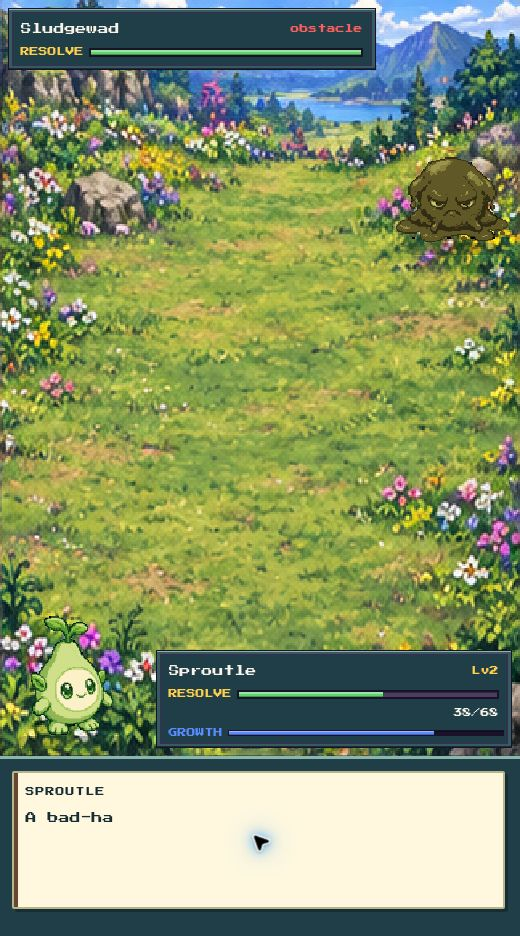
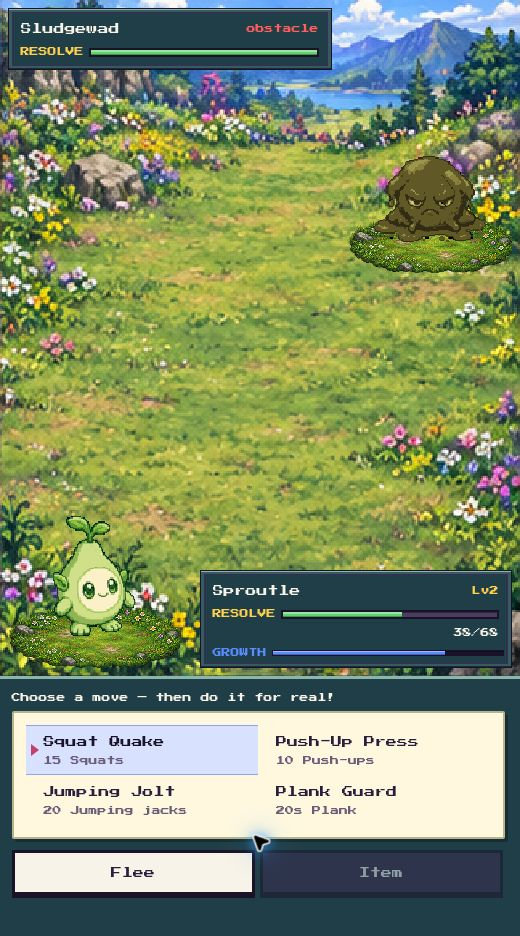
Organize home placement, tie trail scenery to distance, and add regional battle platforms

diff --git a/src/components/EnvironmentLandscape.js b/src/components/EnvironmentLandscape.js
@@ -1,10 +1,13 @@
 import React, { useEffect, useRef } from 'react';
-import { Animated, Easing, Image, Platform, View } from 'react-native';
-import { ENVIRONMENT_ATLAS, environmentCell } from '../data/environmentArt';
+import { Animated, Easing, Image, Platform, Pressable, View } from 'react-native';
+import { environmentCell } from '../data/environmentArt';
+import TileImage from './TileImage';
+import { trailTravelPixels, TRAIL_NOTES } from '../data/trailTravel';
 import useReducedMotion from '../state/useReducedMotion';
 import useDaylight from '../state/useDaylight';
 import { veilFor } from '../data/daylight';
 
+const ENVIRONMENT_ATLAS = require('../../assets/worlds/trail-environments-v2.png');
 const BATTLE_ATLAS = require('../../assets/worlds/battle-environments-v2.png');
 
 // The atlas is sampled inside a clipped panel, never as visible ground cells.
@@ -24,7 +27,7 @@ function Panel({ cell, width, height, blend = 0, source = ENVIRONMENT_ATLAS }) {
   </View>)}</View>;
 }
 
-export default function EnvironmentLandscape({ tone = 'grass', width, height, moving = false, encounter = false }) {
+export default function EnvironmentLandscape({ tone = 'grass', width, height, moving = false, distanceMiles = 0, onInspect, encounter = false }) {
   const reduce = useReducedMotion();
   const phase = useDaylight();
   const veil = veilFor(phase);
@@ -32,20 +35,43 @@ export default function EnvironmentLandscape({ tone = 'grass', width, height, mo
   const sceneHeight = Math.max(height, width * 1.25);
   const blend = width * 0.14;
   const period = sceneHeight - blend;
+  // The target is accumulated sensor distance. Pausing never resets scenery,
+  // and enabling GPS without a new fix cannot move the landscape.
   useEffect(() => {
-    if (!moving || reduce) return undefined;
-    travel.setValue(0);
-    const loop = Animated.loop(Animated.timing(travel, { toValue: period, duration: period * 28, easing: Easing.linear, useNativeDriver: true }));
-    loop.start();
-    return () => loop.stop();
-  }, [moving, reduce, period, travel]);
+    const target = trailTravelPixels(distanceMiles);
+    if (reduce) { travel.setValue(target); return undefined; }
+    const animation = Animated.timing(travel, { toValue: target, duration: 650, easing: Easing.linear, useNativeDriver: true });
+    animation.start();
+    return () => animation.stop();
+  }, [distanceMiles, reduce, travel]);
+  const groundTravel = Animated.modulo(travel, period);
+  const nearTravel = Animated.modulo(Animated.multiply(travel, 1.28), height);
   const cell = environmentCell(tone);
-  return <View pointerEvents="none" style={{ position: 'absolute', left: 0, top: 0, width, height, overflow: 'hidden', backgroundColor: '#274631' }}>
-    {encounter ? <Panel cell={cell} width={width} height={height} source={BATTLE_ATLAS} /> : <Animated.View style={{ transform: [{ translateY: travel }] }}>
+  return <View pointerEvents="box-none" style={{ position: 'absolute', left: 0, top: 0, width, height, overflow: 'hidden', backgroundColor: '#274631' }}>
+    {encounter ? <Panel cell={cell} width={width} height={height} source={BATTLE_ATLAS} /> : <Animated.View pointerEvents="none" style={{ transform: [{ translateY: groundTravel }] }}>
       {[-1, 0, 1].map(row => <View key={row} style={{ position: 'absolute', top: row * period }}>
         <Panel cell={cell} width={width} height={sceneHeight} blend={blend} />
       </View>)}
     </Animated.View>}
-    {veil.opacity > 0 ? <View style={{ position: 'absolute', left: 0, top: 0, width, height, backgroundColor: veil.color, opacity: veil.opacity }} /> : null}
+    {!encounter ? <>
+      {/* Independent near-ground details pass faster than the distant scenery. */}
+      <Animated.View pointerEvents="none" style={{ position: 'absolute', width, height: height * 2, top: -height, transform: [{ translateY: nearTravel }] }}>
+        {[0, 1].map(copy => [0.22, 0.61, 0.9].map((fraction, i) => <View key={`${copy}-${i}`} style={{ position: 'absolute', top: (copy + fraction) * height, left: i % 2 ? width * 0.83 : width * 0.04, opacity: 0.9 }}>
+          {[0, 2, 3, 5, 9].includes(cell) ? <TileImage name={cell === 5 ? 'prop_tallgrass' : 'prop_flowers'} size={48 + i * 7} /> : <View style={{ width: 28 + i * 4, height: 18 + i * 3, borderRadius: 8, borderTopWidth: 4, borderTopColor: cell === 6 ? '#eef5f4' : '#a89d8a', backgroundColor: cell === 8 ? '#6e4235' : cell === 11 ? '#696081' : '#727775', transform: [{ rotate: `${i * 17 - 12}deg` }] }} />}
+        </View>))}
+      </Animated.View>
+      {onInspect ? <Animated.View style={{ position: 'absolute', left: width * 0.7, top: height * 0.25 - height, transform: [{ translateY: nearTravel }] }}>
+        {[0, 1].map(copy => <Pressable key={copy} accessibilityRole="button" accessibilityLabel="Inspect trail marker" onPress={() => onInspect(TRAIL_NOTES[cell])} style={{ position: 'absolute', top: copy * height, width: 56, height: 64, alignItems: 'center', justifyContent: 'center' }}>
+          <View style={{ width: 42, height: 26, backgroundColor: '#986b3f', borderColor: '#513c29', borderWidth: 3, transform: [{ rotate: '-4deg' }] }}>
+            <View style={{ width: 22, height: 4, backgroundColor: '#eed999', margin: 6 }} />
+          </View>
+          <View style={{ width: 7, height: 26, backgroundColor: '#694c32' }} />
+        </Pressable>)}
+      </Animated.View> : null}
+      {moving && !reduce ? <View pointerEvents="none" style={{ position: 'absolute', left: width * 0.44, top: height * 0.70, flexDirection: 'row', gap: 12, opacity: 0.4 }}>
+        <View style={{ width: 5, height: 3, backgroundColor: '#d7c599' }} /><View style={{ width: 3, height: 3, backgroundColor: '#d7c599' }} />
+      </View> : null}
+    </> : null}
+    {veil.opacity > 0 ? <View pointerEvents="none" style={{ position: 'absolute', left: 0, top: 0, width, height, backgroundColor: veil.color, opacity: veil.opacity }} /> : null}
   </View>;
 }

diff --git a/src/screens/RouteScreen.js b/src/screens/RouteScreen.js
@@ -36,9 +36,9 @@ import { forgetSpot, recallSpot, rememberSpot } from './placeMemory';
 import { DEFAULT_BODY_WEIGHT_LB, formatClock } from '../state/cardioMaths';
 import { saveGame } from '../state/storage';
 
-function ScrollingScene({ width, height, moving, trailId }) {
+function ScrollingScene({ width, height, moving, trailId, distanceMiles, onInspect }) {
   const route = getRoute(trailId);
-  return <EnvironmentLandscape width={width} height={height} moving={moving} tone={route.stageTone || trailId} />;
+  return <EnvironmentLandscape width={width} height={height} moving={moving} distanceMiles={distanceMiles} onInspect={onInspect} tone={route.stageTone || trailId} />;
 }
 
 export default function RouteScreen({ params = {} }) {
@@ -132,7 +132,7 @@ export default function RouteScreen({ params = {} }) {
     onMilestone: (item) => setMessage(`Milestone! ${pickupLine(item.name)} ${routeCheer()}`),
   });
 
-  const running = moving || dist.running;
+  const running = moving; // GPS tracking being enabled is not proof of movement.
   const sessionMiles = Math.max(0, state.stats.distanceMi - session.current.miles);
   const sessionSteps = Math.max(0, state.stats.totalSteps - session.current.steps);
   const breakdown = useMemo(
@@ -289,12 +289,12 @@ export default function RouteScreen({ params = {} }) {
   return (
     <Screen padTop={false} style={{ padding: 0 }}>
       <View style={{ flex: 1, backgroundColor: palette.grass }}>
-        <ScrollingScene width={screen.width} height={screen.height} moving={running} trailId={route.id} />
+        <ScrollingScene width={screen.width} height={screen.height} moving={running} trailId={route.id} distanceMiles={sessionMiles} onInspect={setMessage} />
         <View style={{ position: 'absolute', left: 0, right: 0, bottom: screen.height * 0.30, alignItems: 'center' }}>
           <View style={{ flexDirection: 'row', alignItems: 'flex-end' }}>
             <PixelSprite
-              spriteKey={playerSprite(state.playerGender, 'down', stride)}
-              palette={outfitPalette(state.playerOutfit, state.playerGender, playerSprite(state.playerGender, 'down', stride))}
+              spriteKey={playerSprite(state.playerGender, 'up', stride)}
+              palette={outfitPalette(state.playerOutfit, state.playerGender, playerSprite(state.playerGender, 'up', stride))}
               size={48}
               bob={running}
             />

diff --git a/src/data/maps.js b/src/data/maps.js
@@ -145,24 +145,24 @@ export const DOWNSTAIRS = {
   rows: 15,
   grid: [
       'WWWHHWWWHHWWW',
-      'WncnuF.....sW',
+      'WncnuF.o...sW',
       'W...........W',
-      'W.mam.......W',
-      'W..m........W',
+      'W.......m...W',
+      'W......mam..W',
       'W...........W',
+      'W...v.......W',
       'W...........W',
-      'W.....v.....W',
+      'W...x.......W',
       'W...........W',
-      'W..........oW',
-      'W.....x.....W',
+      'W..fff.l....W',
+      'Wp..........W',
       'W...........W',
-      'Wp...ff...l.W',
       'W...........W',
       'WWWWWWDWWWWWW',
   ],
   zones: [
-    { field: 'tile_home_kitchen', x0: 1, y0: 1, x1: 11, y1: 5 },
-    { field: 'tile_home_rug', x0: 3, y0: 8, x1: 9, y1: 11 },
+    { field: 'tile_home_kitchen', x0: 1, y0: 1, x1: 7, y1: 5 },
+    { field: 'tile_home_rug', x0: 2, y0: 7, x1: 7, y1: 10 },
   ],
   interactions: {
     n: { screen: 'habit', params: { moduleId: 'diet' }, label: 'Worktop — log a meal' },
@@ -182,20 +182,20 @@ export const BEDROOM = {
   rows: 13,
   grid: [
       'WWWHHWWHHWW',
-      'Weg..v..PPW',
-      'WE........W',
+      'Wegl....PPW',
+      'WE....k...W',
+      'W.....m...W',
       'W.........W',
       'W.........W',
-      'W........oW',
       'W.........W',
+      'W.......v.W',
+      'Wo........W',
       'W.........W',
-      'W........lW',
-      'W.........W',
-      'Wkm.......W',
-      'Wp.......sW',
+      'Wp........W',
+      'W........sW',
       'WWWWWWWWWWW',
   ],
-  zones: [{ field: 'tile_home_rug', x0: 3, y0: 5, x1: 7, y1: 9 }],
+  zones: [{ field: 'tile_home_rug', x0: 3, y0: 5, x1: 6, y1: 8 }],
   interactions: {
     e: { screen: 'habit', params: { moduleId: 'sleep' }, verb: 'Rest', label: 'Bed — log last night' },
     E: { screen: 'habit', params: { moduleId: 'sleep' }, verb: 'Rest', label: 'Bed — log last night' },

diff --git a/src/components/BattleStage.js b/src/components/BattleStage.js
@@ -1,15 +1,22 @@
 // Continuous encounter clearings and a shared contact-shadow treatment.
 
 import React, { useState } from 'react';
-import { View } from 'react-native';
+import { View, Platform as NativePlatform } from 'react-native';
+import { PLATFORM_ATLAS, PLATFORM_RECTS } from '../data/platformArt';
+import { environmentCell } from '../data/environmentArt';
 import { screen } from '../theme';
 import EnvironmentLandscape from './EnvironmentLandscape';
 import { Image } from 'react-native';
 import { WORLD_BACKGROUNDS } from '../data/worldArt';
 
-// A contact shadow keeps combatants planted in the painted landscape.
-export function Platform({ width = 96 }) {
-  return <View style={{ width, height: 12, borderRadius: width, backgroundColor: '#132820', opacity: 0.32, marginTop: -5 }} />;
+// The feet overlap the centre of a region-specific surface, not its rear rim.
+export function Platform({ width = 160, tone = 'grass' }) {
+  const height = width * 0.38;
+  const [x, y, w, h] = PLATFORM_RECTS[environmentCell(tone)];
+  if (tone === 'hall') return <View style={{ width, height, marginTop: -height * 0.6, zIndex: -1, borderRadius: 8, backgroundColor: '#344c56', borderWidth: 3, borderColor: '#768b8b', transform: [{ scaleY: 0.7 }] }} />;
+  return <View pointerEvents="none" style={{ width, height, marginTop: -height * 0.6, zIndex: -1, overflow: 'hidden' }}>
+    <Image source={PLATFORM_ATLAS} fadeDuration={0} style={{ position: 'absolute', width: 1536 * width / w, height: 1024 * height / h, left: -x * width / w, top: -y * height / h, ...(NativePlatform.OS === 'web' ? { imageRendering: 'pixelated' } : {}) }} />
+  </View>;
 }
 
 // Encounters use spacious clearings from the same biome family as the route.

diff --git a/src/data/trailTravel.js b/src/data/trailTravel.js
@@ -1,0 +1,19 @@
+// Visual scale only. Never used by the distance ledger or encounter rewards.
+export const TRAIL_PIXELS_PER_MILE = 8046.72;
+export function trailTravelPixels(miles) {
+  return Math.max(0, Number.isFinite(miles) ? miles : 0) * TRAIL_PIXELS_PER_MILE;
+}
+export const TRAIL_NOTES = [
+  'Maple leaves shade the path. Your companion watches the branches as you pass.',
+  'Small cairns mark the firm ground. Follow the worn centre of the trail.',
+  'The meadow opens into long grass. Wind bends the seed heads along the verge.',
+  'Ferns crowd the shaded path. Your footfalls soften on the forest floor.',
+  'Shells mark the high-water line. The route follows the dry sand above it.',
+  'Reeds shelter the muddy banks. The marked path keeps to firmer ground.',
+  'Snow gathers against the rocks. Old tracks trace the sheltered route.',
+  'Pale stone catches the cave light. The trail follows the broad ledge.',
+  'Red gravel crunches underfoot. Dark cooled rock borders the trail.',
+  'Golden leaves collect at the roots. Your companion noses through the autumn air.',
+  'Weathered rock marks the ridge. Low plants cling to the sheltered cracks.',
+  'Moonlight catches tiny crystals. Violet moss softens the edges of the path.',
+];

diff --git a/src/dev/VisualPreview.js b/src/dev/VisualPreview.js
@@ -1,11 +1,15 @@
 // Isolated visual-QA fixture. Render the REAL screens with a disposable save.
 // Never mounts persistence, cloud sync, or a real participant's account.
-import React, { useReducer } from 'react';
+import React, { useMemo, useReducer } from 'react';
 import { GameContext, reducer } from '../state/GameContext';
 import { FRESH } from '../state/hydrate';
 import Router from '../screens/Router';
 
 export default function VisualPreview({ route }) {
+  const initialParams = useMemo(() => {
+    const tone = new URLSearchParams(window.location.search).get('visualTone');
+    return ['maple', 'rill', 'gale', 'ember', 'cairn', 'canopy'].includes(tone) ? { stageTone: tone } : {};
+  }, []);
   const [state, dispatch] = useReducer(reducer, {
     ...FRESH,
     started: true,
@@ -17,6 +21,6 @@ export default function VisualPreview({ route }) {
     meta: { ...FRESH.meta, homeTourDone: true, mapleSessionDone: true, sparDone: true, gymTourDone: true },
   });
   return <GameContext.Provider value={{ state, dispatch, hydrated: true, saveError: null, visualPreview: true }}>
-    <Router initialRoute={route} />
+    <Router initialRoute={route} initialParams={initialParams} />
   </GameContext.Provider>;
 }

diff --git a/src/screens/Router.js b/src/screens/Router.js
@@ -93,7 +93,7 @@ const PLACES = new Set(['hub', 'gym', 'rest', 'route', 'title', 'homeIntro']);
 
 // Only places get named on a back button. Anywhere else it is just "Back",
 // because "Back to the movement picker" is worse than saying nothing.
-export default function Router({ initialRoute = 'title' }) {
+export default function Router({ initialRoute = 'title', initialParams }) {
   const { state, hydrated, saveError } = useGame();
   const [route, setRoute] = useState(null);
   const [stack, setStack] = useState([]);
@@ -103,9 +103,9 @@ export default function Router({ initialRoute = 'title' }) {
     if (hydrated && route === null) {
       setMuted(!!state.settings.muted);
       setBgmMuted(!!state.settings.bgmMuted);
-      setRoute({ name: initialRoute, params: {} });
+      setRoute({ name: initialRoute, params: initialParams || {} });
     }
-  }, [hydrated, route, state.settings, initialRoute]);
+  }, [hydrated, route, state.settings, initialRoute, initialParams]);
 
   useEffect(() => {
     if (!route) return;

diff --git a/src/screens/BattleScreen.js b/src/screens/BattleScreen.js
@@ -581,7 +581,7 @@ export default function BattleScreen({ params }) {
               />
             )}
             <DamagePop pop={wildPop} color={palette.secondary} />
-            <Platform width={params.warden && params.trainer ? 120 : 92} tone={stageTone} />
+            <Platform width={params.warden && params.trainer ? 188 : 164} tone={stageTone} />
           </Animated.View>
         </View>
 
@@ -601,7 +601,7 @@ export default function BattleScreen({ params }) {
               />
             </View>
             <DamagePop pop={compPop} color={palette.danger} />
-            <Platform width={108} tone={stageTone} />
+            <Platform width={172} tone={stageTone} />
           </Animated.View>
           <StatusPlate
             name={companion.creature.name}

diff --git a/src/data/environmentArt.js b/src/data/environmentArt.js
@@ -2,12 +2,11 @@
 // Biomes remain distinct even when several routes belong to the same landscape.
 import { sceneTone } from './sceneSky';
 
-export const ENVIRONMENT_ATLAS = require('../../assets/worlds/trail-environments-v2.png');
 const BY_CODE = { grass: 0, earth: 1, open: 2, path: 2, shade: 3, sand: 4, reef: 4, marsh: 5, snow: 6, cave: 7, floor: 1 };
 const BY_TONE = {
-  ember: 8, redmesa: 8, suncrack: 1,
+  rill: 4, ember: 8, redmesa: 8, suncrack: 1,
   honeyfall: 9, amber: 9, ringwood: 9,
-  staticridge: 10, thunderstep: 10, gale: 10,
+  staticridge: 10, thunderstep: 10,
   moonfen: 11, cometgrass: 11, starfall: 11, dusk: 11,
 };
 export function environmentCell(tone) {

diff --git a/src/data/platformArt.js b/src/data/platformArt.js
@@ -1,0 +1,3 @@
+// Original generated RGBA terrain patches, cropped at runtime.
+export const PLATFORM_ATLAS = require('../../assets/worlds/battle-platforms-v1.png');
+export const PLATFORM_RECTS = [[17, 37, 481, 219], [525, 47, 481, 180], [1031, 44, 486, 182], [16, 256, 482, 212], [525, 279, 481, 233], [1032, 262, 484, 206], [17, 513, 480, 255], [523, 512, 483, 256], [1032, 513, 486, 255], [17, 768, 479, 194], [524, 768, 481, 193], [1031, 768, 487, 192]];

diff --git a/src/screens/HomeRestScreen.js b/src/screens/HomeRestScreen.js
@@ -15,8 +15,7 @@ const FLOORS = {
   downstairs: {
     ...DOWNSTAIRS,
     name: 'Home — Downstairs',
-    // Not (6,13): that is directly under the sofa, so the first step into the
-    // room sat you down on it instead of walking.
+    // Entry and the eastern stair aisle remain clear of furniture.
     spawn: { x: 7, y: 13 },
     stairs: { x: 11, y: 1 },
     // Just south of the stairs so going down does not immediately send you back up.

diff --git a/docs/GAME_BIBLE.md b/docs/GAME_BIBLE.md
@@ -250,8 +250,8 @@ material does.
 |---|---|---|---|
 | Sunkist Lane (`HUB`) | 13×17 | — | a lane north to the trail, the two buildings facing each other across it, a green with a pond, bench and fenced plot |
 | Quest Fitness (`GYM`) | 17×19 | platform, turf, mats | the ordinary commercial convention: perimeter for what backs onto a wall, centre for what does not |
-| Downstairs (`DOWNSTAIRS`) | 13×15 | kitchen, rug | counter run on the north wall, dining on the vinyl, living room around the rug |
-| Bedroom (`BEDROOM`) | 11×13 | rug | narrower, because a one-person bedroom as wide as a hall reads as a hall |
+| Downstairs (`DOWNSTAIRS`) | 13×15 | kitchen, rug | north-wall kitchen, northeast dining group, southwest living group and clear eastern stair aisle |
+| Bedroom (`BEDROOM`) | 11×13 | rug | bed and bedside furniture northwest, desk and chair together, wardrobe northeast, central rug |
 
 The gym: **racks along the north wall** on the lifting platform (a power rack is
 bolted to a wall in every gym that owns one), **free weights down the west
@@ -376,8 +376,10 @@ are grown, never knotted.
 - RouteScreen used to carry a second mode for the cardio deck, rendered as
   the outdoor trail with its trees switched off; the deck lives in the gym
   now (§5.7).
-- The trail visual is a continuous landscape panel with blended repeat
-  boundaries; it scrolls only while distance is actually arriving and respects reduced motion.
+- The trail visual uses continuous panels with blended repeat boundaries.
+  Accumulated measured distance sets scenery position; pausing never resets it.
+  Near-ground details and inspectable trail markers pass at a separate depth.
+  Starting GPS alone does not animate travel. Reduced motion snaps to distance.
 - **Step sources, in priority order** (see docs/STEP_COUNTING.md):
   1. OS pedometer (`Pedometer.watchStepCount`) — counts with the screen off;
      needs Physical activity / Motion permission; NOT always reachable inside
@@ -788,7 +790,8 @@ milestone count) → `toBattle` flash → BattleScreen.
   (KO) at 430 after its flinch. Entry: wild slides in from +90 px right,
   companion from −110 left, staggered 160. All timers cleared on unmount.
 - **Stage**: continuous biome-specific encounter clearings with soft contact
-  shadows beneath independent combatants. The gym uses its architectural floor.
+  region-specific terrain platforms beneath independent combatants, with twelve
+  original surfaces matching the biome table. The gym uses its architectural floor.
   Battle controls scroll within a compact lower panel; combatant animation and
   the shared scene-tone mapping remain intact.
 - Defeat → `LOSE_BATTLE`, hub. Swap preserves per-member HP. Evolution beat:
